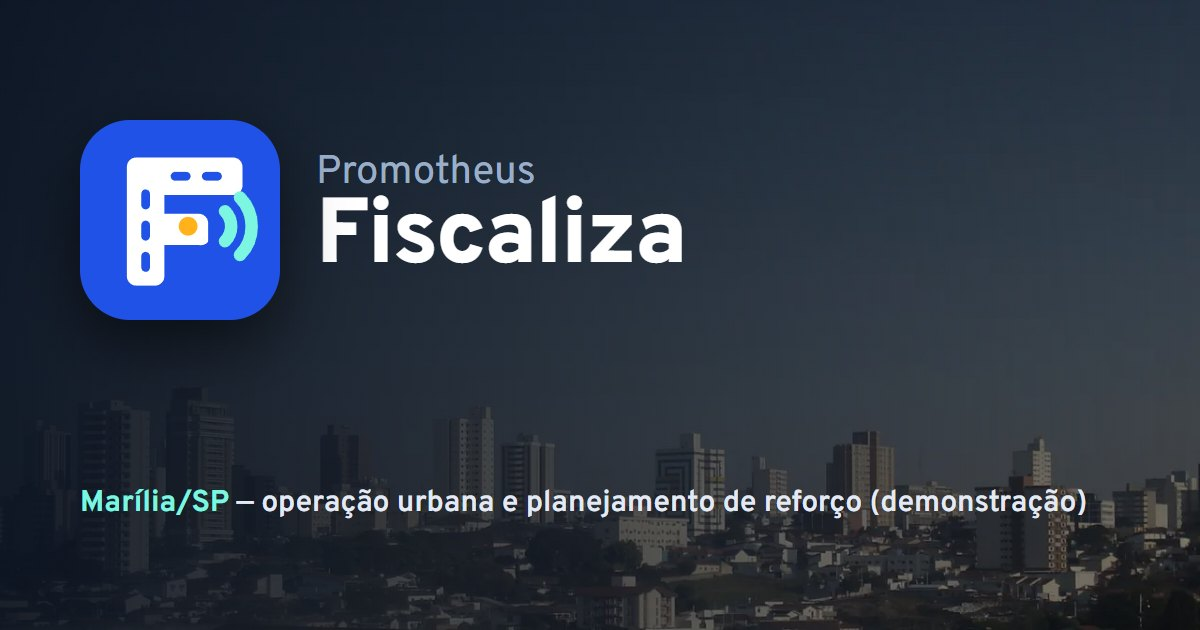
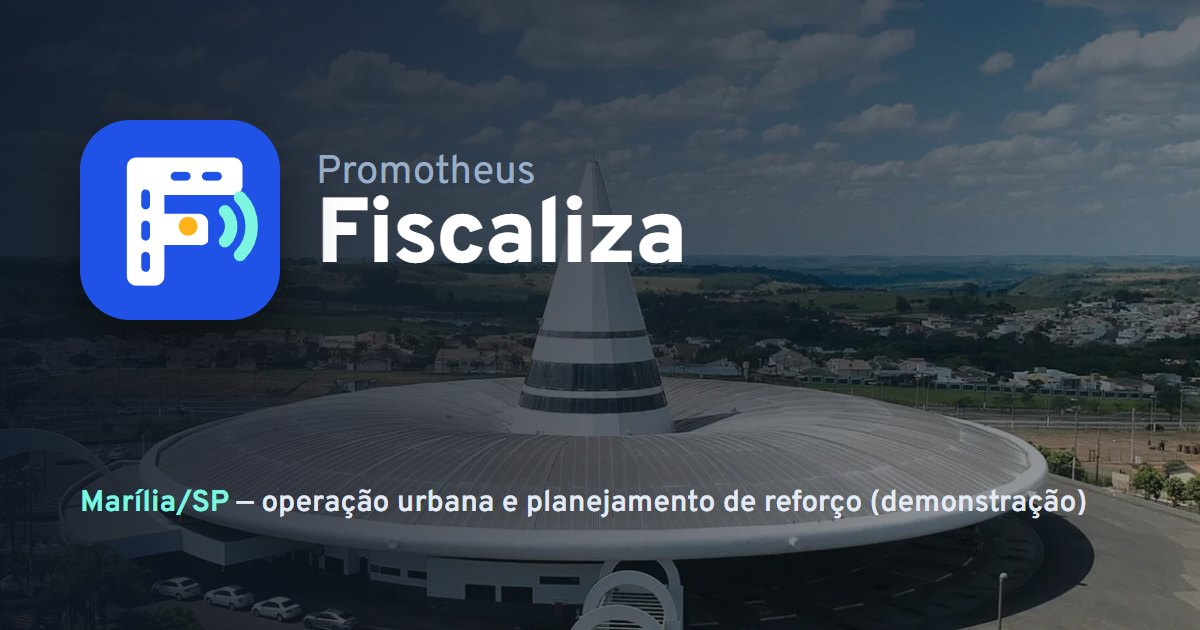
Landing: foto da hero passa a ser o terminal rodoviário de Marília, de Pedro Monteiro
Recorte sem a marca d'água (o crédito vai no rodapé e em licenças), mesmo tratamento
de cor; imagem de compartilhamento refeita.

diff --git a/landing/pagina.php b/landing/pagina.php
@@ -56,7 +56,7 @@ $dataCaptura = 'Captura da demonstração em 22/10/2026, com operação fictíci
   <meta property="og:image" content="<?= e(rtrim($publica, '/') . asset('img/compartilhar-1200x630.jpg')) ?>">
   <meta property="og:image:width" content="1200">
   <meta property="og:image:height" content="630">
-  <meta property="og:image:alt" content="Marca do Promotheus Fiscaliza sobre a silhueta dos prédios de Marília/SP.">
+  <meta property="og:image:alt" content="Marca do Promotheus Fiscaliza sobre a foto do terminal rodoviário de Marília/SP.">
   <meta name="twitter:card" content="summary_large_image">
   <link rel="icon" href="<?= e(asset('img/favicon.svg')) ?>" type="image/svg+xml">
   <link rel="preload" href="/landing-assets/promotheus/build/overpass-latin-wght-normal.woff2" as="font" type="font/woff2" crossorigin>
@@ -124,10 +124,10 @@ $dataCaptura = 'Captura da demonstração em 22/10/2026, com operação fictíci
 
       <div class="palco" data-palco data-montagem="<?= $hero['montagem'] ? '1' : '0' ?>" data-duracao="<?= e((float) $hero['duracao']) ?>" data-ponteiro="<?= $hero['ponteiro'] ? '1' : '0' ?>">
         <div class="palco__foto" aria-hidden="true">
-          <!-- Marília/SP vista de longe: Filipe Mesquita de Oliveira / Wikimedia Commons, CC BY-SA 3.0 (recorte e cor). -->
+          <!-- Terminal rodoviário de Marília/SP: foto de Pedro Monteiro (@pvictormonteiro), recorte e tratamento de cor. -->
           <picture data-palco-foto>
-            <source media="(max-width: 959.98px)" srcset="<?= $img('marilia-720.webp') ?>" width="720" height="430">
-            <img src="<?= $img('marilia-1280.webp') ?>" width="1280" height="764" alt="" decoding="async" fetchpriority="high">
+            <source media="(max-width: 959.98px)" srcset="<?= $img('marilia-720.webp') ?>" width="720" height="360">
+            <img src="<?= $img('marilia-1280.webp') ?>" width="1280" height="640" alt="" decoding="async" fetchpriority="high">
           </picture>
         </div>
         <div class="palco__sombra" aria-hidden="true" data-palco-sombra></div>
@@ -405,7 +405,7 @@ $dataCaptura = 'Captura da demonstração em 22/10/2026, com operação fictíci
     <p class="rodape__marca"><svg class="icone" aria-hidden="true" focusable="false"><use href="#marca"></use></svg>Promotheus Fiscaliza · DSIN Coder Challenge 2026, etapa F.O.G.O.</p>
     <p>Desenvolvido por <a href="<?= e($config['autor']['url']) ?>" rel="author"><?= e($config['autor']['nome']) ?></a>.</p>
     <p class="rodape__aviso">Projeto demonstrativo: equipamentos, agentes, posições, missões e multas são fictícios. O planejamento usa contagens reais agregadas de sinistros. Fonte: Infosiga-SP / Detran-SP, CC BY 4.0. Sem integração com órgãos ou equipamentos reais.</p>
-    <p class="rodape__aviso">Foto de Marília na abertura: <a href="https://commons.wikimedia.org/wiki/File:Mar%C3%ADlia_panorama3.JPG">Filipe Mesquita de Oliveira / Wikimedia Commons</a>, <a href="https://creativecommons.org/licenses/by-sa/3.0/deed.pt-br" rel="license">CC BY-SA 3.0</a>; recorte e tratamento de cor, sob a mesma licença. Mapas das capturas © colaboradores do OpenStreetMap.</p>
+    <p class="rodape__aviso">Foto de Marília na abertura: Pedro Monteiro (@pvictormonteiro); recorte e tratamento de cor. Mapas das capturas © colaboradores do OpenStreetMap.</p>
   </div>
 </footer>
 

diff --git a/docs/licencas-e-fontes.md b/docs/licencas-e-fontes.md
@@ -14,7 +14,7 @@
 | Skills consultadas no desenvolvimento | `emilkowalski/skills` (emil-design-eng, review-animations), `LottieFiles/motion-design-skill`, `anthropics/skills` (frontend-design), `greensock/gsap-skills` (MIT) | Licenças dos respectivos repositórios | Orientação de projeto; nenhum arquivo delas é distribuído. A licença das skills do GSAP não substitui a licença da biblioteca GSAP (linha acima). |
 | three.js 0.186.1 | npm `three@0.186.1` | MIT (aviso preservado no arquivo gerado e em `landing/public/landing-assets/promotheus/build/licencas-de-terceiros.md`) | Marca 3D e objetos das cenas da landing pública; só no pedaço carregado sob demanda. |
 | Capturas do sistema na landing (`landing/public/landing-assets/promotheus/img/*.webp`, exceto `marilia-*`) | Feitas em 22/10/2026 num ambiente local isolado com o cenário de demonstração (dados fictícios) e as contagens agregadas do Infosiga-SP em Planejar | MIT (as telas); o mapa de fundo é © colaboradores do OpenStreetMap, com a atribuição visível na imagem e na legenda; o mapa de calor deriva de Infosiga-SP / Detran-SP (CC BY 4.0, atribuição na legenda) | Seções "O sistema", "Recursos" e "Planejar reforço" da landing. |
-| Foto de Marília na hero da landing (`landing/public/landing-assets/promotheus/img/marilia-1280.webp`, `marilia-720.webp`) e imagem de compartilhamento (`compartilhar-1200x630.jpg`) | ["Marília panorama3.JPG"](https://commons.wikimedia.org/wiki/File:Mar%C3%ADlia_panorama3.JPG), Filipe Mesquita de Oliveira, Wikimedia Commons (trabalho próprio do autor; foto de 2006); licença conferida na API do Commons em 22/10/2026 | **CC BY-SA 3.0** ([texto](https://creativecommons.org/licenses/by-sa/3.0/deed.pt-br)) — **não** está sob a MIT do código. Alterações: recorte (sem o primeiro plano), menos saturação, escurecimento em gradiente e redução; os derivados seguem CC BY-SA 3.0. Crédito com links no rodapé da landing | Fundo do palco da marca na hero e imagem do Open Graph. |
+| Foto de Marília na hero da landing (`landing/public/landing-assets/promotheus/img/marilia-1280.webp`, `marilia-720.webp`) e imagem de compartilhamento (`compartilhar-1200x630.jpg`) | Terminal rodoviário de Marília, foto de **Pedro Monteiro** (@pvictormonteiro), enviada pelo autor do projeto em 22/10/2026 com a indicação do crédito | © Pedro Monteiro — **não** está sob a MIT do código; uso na landing com crédito no rodapé. Alterações: recorte (sem a marca d'água, que vira o crédito em texto), menos saturação, escurecimento em gradiente e redução | Fundo do palco da marca na hero e imagem do Open Graph. |
 | Leaflet 1.9.4 | npm `leaflet@1.9.4` | BSD-2-Clause ([cópia](../public/assets/vendor/leaflet/LICENSE)) | Mapa, servido localmente. |
 | Capturas de tela em `docs/evidencias/capturas-2026-10-18/` | Geradas localmente com dados fictícios | MIT (as telas); o mapa de fundo nelas é © colaboradores do OpenStreetMap, com a atribuição visível | Evidência antes/depois do redesenho. |
 | Capturas e vídeos em `docs/evidencias/2026-10-18-identidade-e-motion/` | Gerados no ambiente isolado com dados fictícios | MIT | Sem mapa de fundo: os servidores de tiles estavam bloqueados pela rede desse ambiente (a atribuição continua no canto do mapa). |

diff --git a/docs/adr/0018-landing-seis-pilares-e-foto-de-marilia.md b/docs/adr/0018-landing-seis-pilares-e-foto-de-marilia.md
@@ -89,3 +89,9 @@ Foto como textura no Three.js (dependeria do WebGL e de pós-processamento); um 
 (disputaria a rotação com o da marca); distorção de água, partículas, vídeo em autoplay ou mapa "ao vivo" fictício
 (proibidos pelo pedido); mesma imagem desktop maior no celular (continuaria ilegível); zoom só por hover (inacessível
 no toque e no teclado).
+
+## Atualização (22/10/2026, mesma data)
+A foto do Commons foi trocada, a pedido do autor, por uma foto aérea do terminal rodoviário de Marília de **Pedro
+Monteiro** (@pvictormonteiro), com crédito no rodapé e em [licenças e fontes](../licencas-e-fontes.md). Recorte
+1280 × 640 sem a marca d'água, mesmo tratamento (dessaturação, escurecimento em gradiente), 77 KB no desktop e 28 KB no
+celular. O comportamento do palco não mudou.
